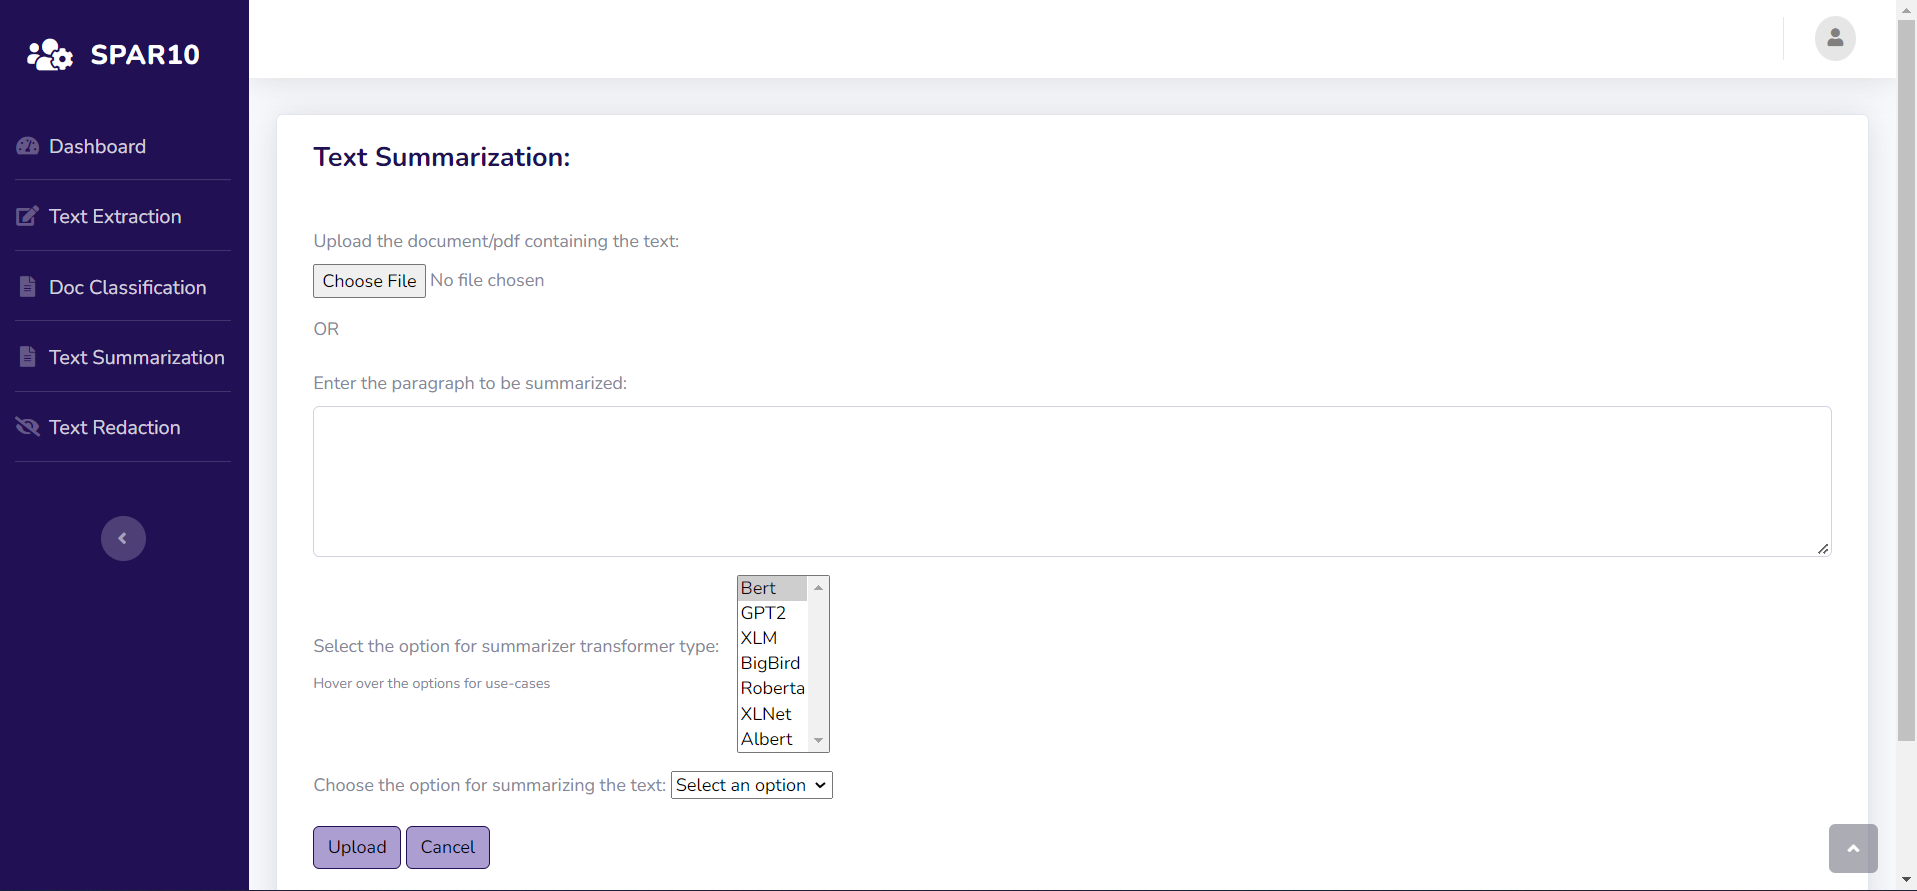
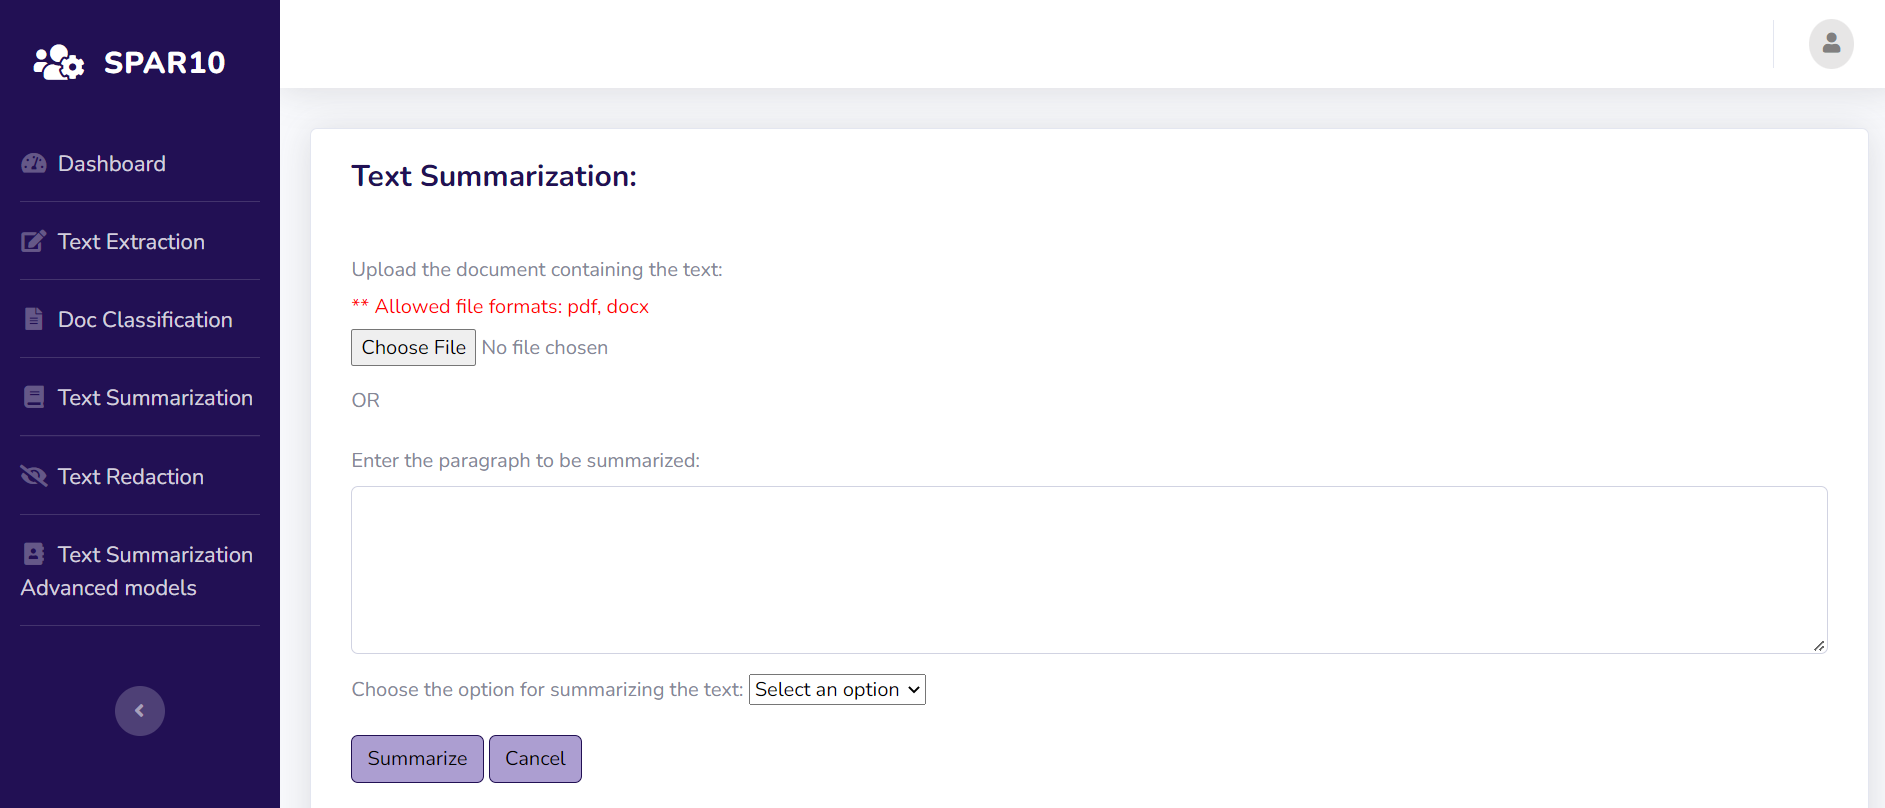
modified screenshots added

diff --git a/templates/system_views/parasummarization_demo.html b/templates/system_views/parasummarization_demo.html
@@ -90,7 +90,7 @@
                                     <input type="number" class="form-control" name="num_sent" placeholder="e.g. 3">
                                 </div>
                             </div>
-                            <input type="submit" class="btn btn-purple" value="Upload" name="resum_submit"
+                            <input type="submit" class="btn btn-purple" value="Summarize" name="resum_submit"
                                 id='submitbtn'>
                             <input type="reset" class="btn btn-purple" value="Cancel" name="resum_reset">
                         </form>
